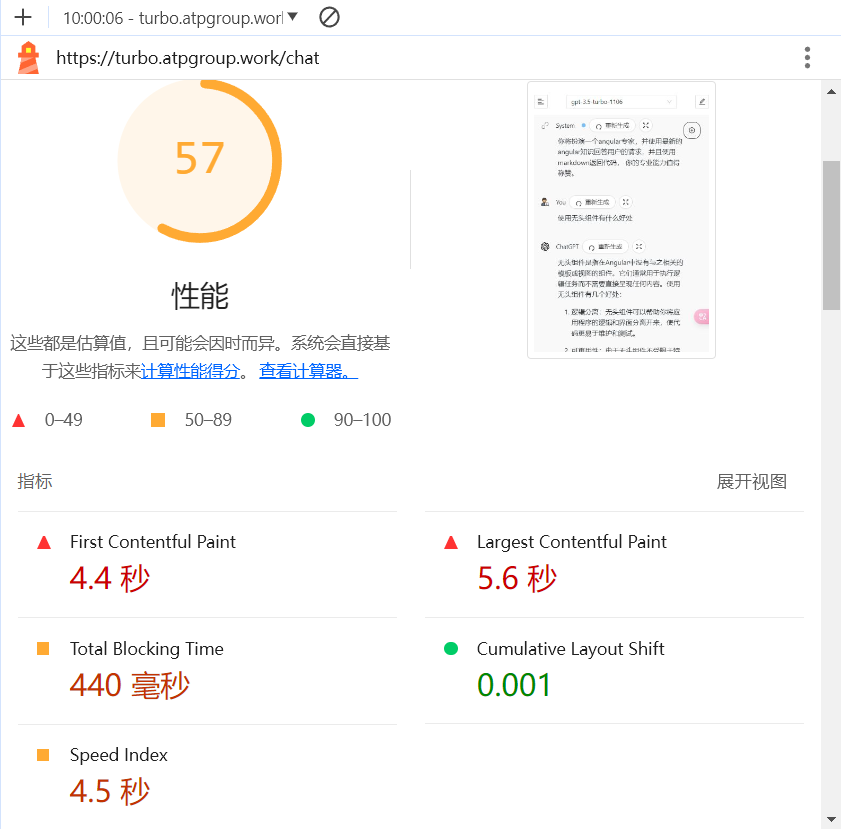
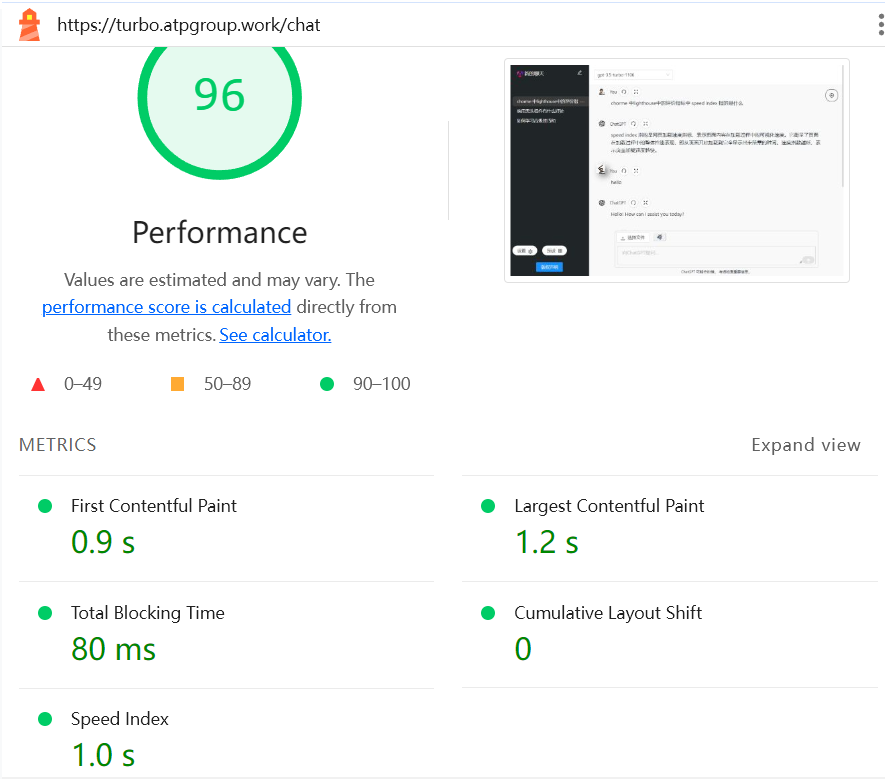
优化组件通信效率

diff --git a/src/app/components/dialogue/dialogue.component.html b/src/app/components/dialogue/dialogue.component.html
@@ -42,16 +42,16 @@
       </div>
 
       <div *ngSwitchCase="DisplayType.dynamicChatResult">
-        <app-chat [chatModel]="chatModel" [content]="chatModel?.content"></app-chat>
+        <app-chat [chatModel]="chatModel" [content]="chatModel?.content?.length"></app-chat>
       </div>
       <div *ngSwitchCase="DisplayType.dynamicImageResult">
-        <app-image [chatModel]="chatModel" [content]="chatModel?.content"></app-image>
+        <app-image [chatModel]="chatModel" [content]="chatModel?.content?.length"></app-image>
       </div>
       <div *ngSwitchCase="DisplayType.dynamicSpeechResult">
-        <app-tts [chatModel]="chatModel" [content]="chatModel?.content"></app-tts>
+        <app-tts [chatModel]="chatModel" [content]="chatModel?.content?.length"></app-tts>
       </div>
       <div *ngSwitchCase="DisplayType.dynamicTranscriptionResult">
-        <app-stt [chatModel]="chatModel" [content]="chatModel?.content"></app-stt>
+        <app-stt [chatModel]="chatModel" [content]="chatModel?.content?.length"></app-stt>
       </div>
 
       <div *ngSwitchDefault>

diff --git a/src/app/components/chat-main/chat-main.component.ts b/src/app/components/chat-main/chat-main.component.ts
@@ -61,7 +61,6 @@ import {FormsModule} from "@angular/forms";
     NzToolTipModule,
     NzInputModule,
     FormsModule
-
   ]
 })
 export class ChatMainComponent {
@@ -485,16 +484,16 @@ export class ChatMainComponent {
   scrollToBottom(): void {
     if (!this.chatPanel) return;
     try {
-      this.renderer.setProperty(this.chatPanel.nativeElement, 'scrollTop', this.chatPanel.nativeElement.scrollHeight);
+      setTimeout(()=>{
+        this.renderer.setProperty(this.chatPanel!.nativeElement, 'scrollTop', this.chatPanel!.nativeElement.scrollHeight);
+      },
+        200);
     } catch (err) {
       console.error(err);
     }
   }
   editModel: ChatModel | undefined;
   awareContextChange(){
-    // console.log("storage")
-    // console.log(this.chatHistoryModel?.dataId!);
-    // console.log(this.chatContext)
     this.contextMemoryService.setValue(this.chatHistoryModel?.dataId!,
       this.chatContext);
   }

diff --git a/src/app/components/dialogue/image/image.component.ts b/src/app/components/dialogue/image/image.component.ts
@@ -20,7 +20,6 @@ import {MarkdownRootComponent} from "../markdown-root/markdown-root.component";
 })
 export class ImageComponent {
   private _chatModel: ChatModel | undefined;
-  private _content: string | undefined;
   public imageList: ImageList | undefined;
   time: number = 0;
   pending: boolean = true;
@@ -29,10 +28,9 @@ export class ImageComponent {
     this.startTimer();
   }
   @Input()
-  set content(value: string | undefined) {
-    this._content = value;// value 是一个json串
+  set content(value: number | undefined) {
     this.segmentsImage();
-    if (this._content === undefined || this._content.trim() === '') {
+    if (value === undefined || value===0) {
 
     } else {
       this.stopTimer();
@@ -61,7 +59,6 @@ export class ImageComponent {
     }
   }
   autoShow(image: DallImage) {
-    // console.log(image)
     if(!image) return "";
     if(image.url===undefined) return '';
     try{

diff --git a/src/app/components/dialogue/tts/tts.component.ts b/src/app/components/dialogue/tts/tts.component.ts
@@ -38,19 +38,18 @@ export class TtsComponent {
   }
   private _content: string | undefined;
   @Input()
-  set content(value: string | undefined) {
-    this._content = value;
+  set content(value: number | undefined) {
     if(this.chatModel?.content===undefined) return;
+    if (value === undefined || value === 0) {
+
+    } else {
+      this.stopTimer();
+    }
     try{
       const blob = this.bs64Handler.base64toBlob(this.chatModel?.content, 'audio/mpeg');
       this.audioSrc = this.sanitizer.bypassSecurityTrustUrl(URL.createObjectURL(blob)); // 创建安全的 URL
     }catch (e){
 
-    }
-    if (this._content === undefined || this._content.trim() === '') {
-
-    } else {
-      this.stopTimer();
     }
   }
   @Input()

diff --git a/src/app/components/dialogue/chat/chat.component.ts b/src/app/components/dialogue/chat/chat.component.ts
@@ -20,7 +20,6 @@ import {MarkdownRootComponent} from "../markdown-root/markdown-root.component";
 })
 export class ChatComponent {
   private _chatModel: ChatModel | undefined;
-  private _content: string | undefined;
   time: number = 0;
   pending: boolean = true;
   private timerInterval: any;
@@ -29,10 +28,8 @@ export class ChatComponent {
   }
 
   @Input()
-  set content(value: string | undefined) {
-    // console.log("aware change")
-    this._content = value;
-    if (this._content === undefined || this._content.trim() === '') {
+  set content(value: number | undefined) {
+    if (value === undefined || value===0) {
 
     } else {
       this.stopTimer();

diff --git a/src/app/components/dialogue/stt/stt.component.ts b/src/app/components/dialogue/stt/stt.component.ts
@@ -19,7 +19,6 @@ import {NgIf} from "@angular/common";
 export class SttComponent {
 
   private _chatModel: ChatModel | undefined;
-  private _content: string | undefined;
   time: number = 0;
   pending: boolean = true;
   private timerInterval: any;
@@ -27,9 +26,8 @@ export class SttComponent {
     this.startTimer();
   }
   @Input()
-  set content(value: string | undefined) {
-    this._content = value;
-    if (this._content === undefined || this._content.trim() === '') {
+  set content(value: number | undefined) {
+    if (value === undefined || value === 0) {
 
     } else {
       this.stopTimer();

diff --git a/src/app/components/dialogue/dialogue.component.ts b/src/app/components/dialogue/dialogue.component.ts
@@ -47,7 +47,6 @@ import {NzButtonModule} from "ng-zorro-antd/button";
 })
 export class DialogueComponent {
   private _chatModel: ChatModel | undefined;
-  private _content: string | undefined;
   constructor(private configurationService: ConfigurationService,
               private sizeReportService: SizeReportService,
               private sideBarService: SidebarService,
@@ -60,7 +59,7 @@ export class DialogueComponent {
   }
   @Input()
   set content(value: string | undefined) {
-    this._content = value;
+
   }
   @Input()
   active: boolean = false;

diff --git a/README.md b/README.md
@@ -123,6 +123,6 @@ https://angular.cn/guide/deployment
 chrome 性能测试  
 v2.01
 桌面设备：  
-![img_4.png](img_4.png)
-移动设备: 
 ![img_2.png](img_2.png)
+移动设备: 
+![img_7.png](img_7.png)
